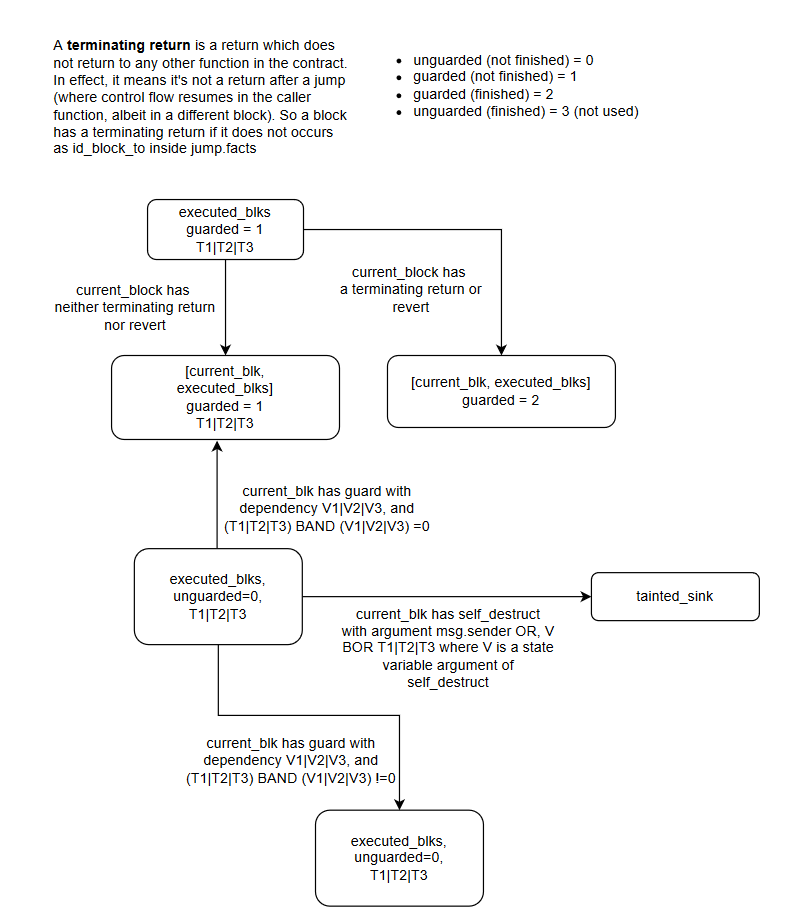
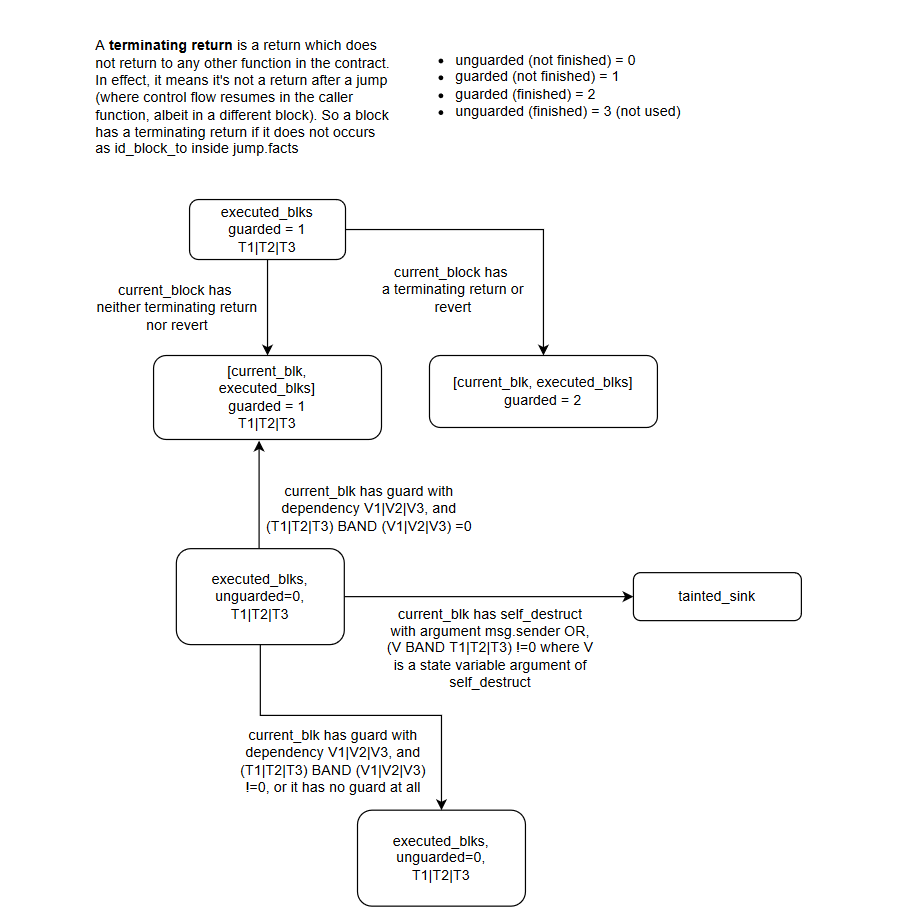
update diagram

diff --git a/README.md b/README.md
@@ -1,6 +1,7 @@
 # PASS 2022 Course Project
 
 ## Project Idea
+#### NB: State diagram uses three state variables but can be generalized to any number of state variables
 ![alt text](./project/state_diag.PNG?raw=true)
 
 ## Repository Structure
